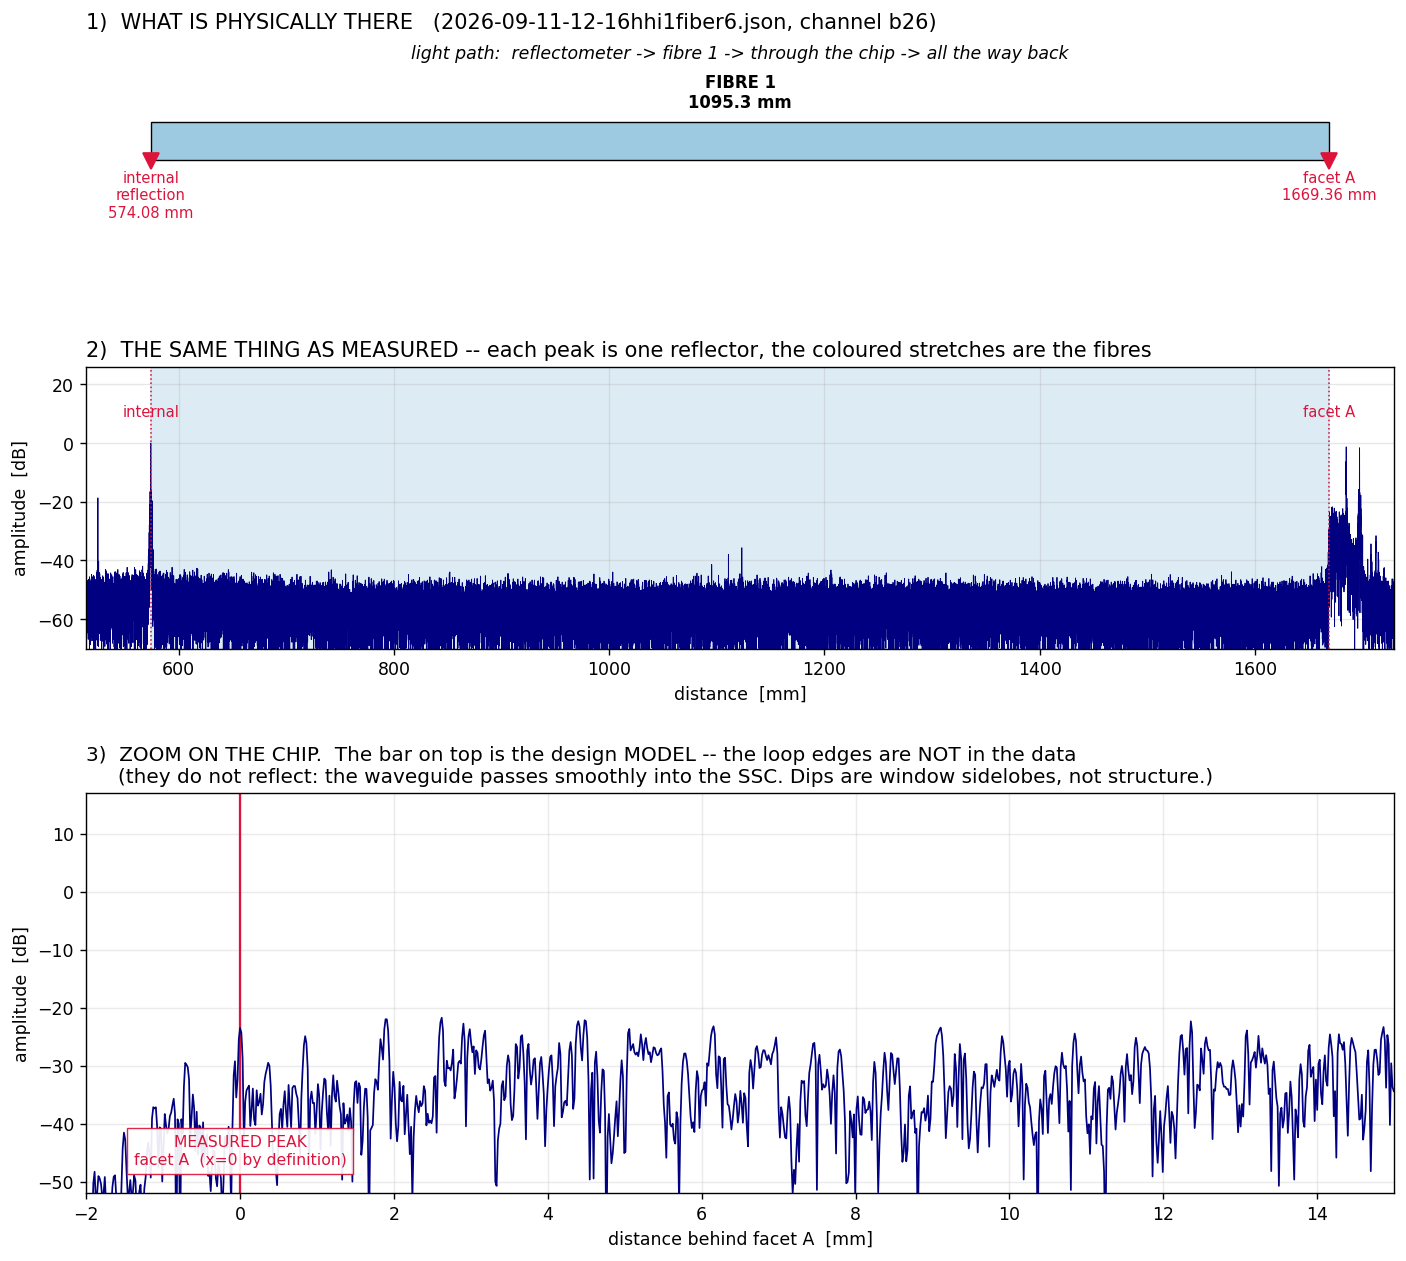
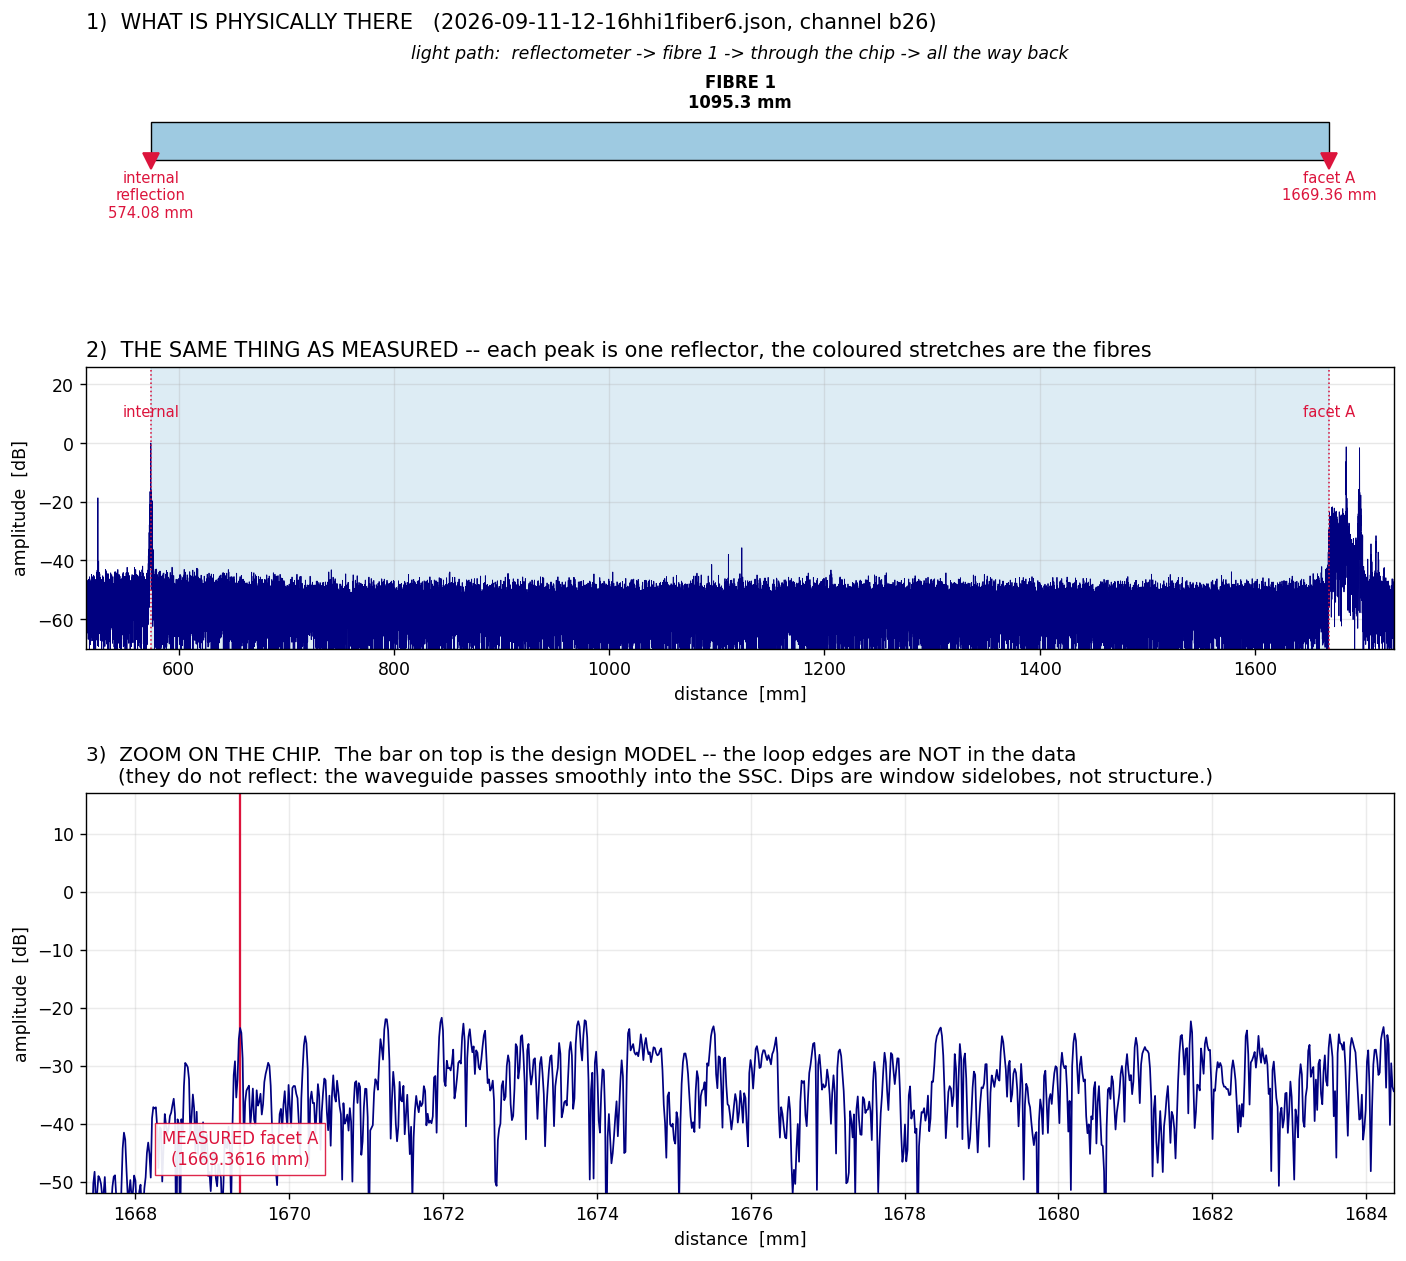
chain plot: absolute mm axis in panel 3, facet labels with positions
Panel 3 of <scan>_chain.png now uses absolute distance in mm instead of
distance behind facet A, and both facets are labelled with the position
where their peak sits (measured facet A / facet B, plus their separation
and the design prediction with its own mm value). The design model bar and
the component markers move with the axis.

Regenerated for all seven chip scans.

diff --git a/tools/identify_chip_scan.py b/tools/identify_chip_scan.py
@@ -260,21 +260,21 @@ def chain_plot(a, z, db, ref, za, zb, d_ff, d_loop, res_mm, marks=None):
     ax = fig.add_subplot(gs[2])
     span = (zb - za) if zb is not None else 12.0
     w = (z > za - 2) & (z < za + span + 3)
-    ax.plot(z[w] - za, db[w], lw=1.0, color="navy", zorder=3)
-    ax.axvline(0, color="crimson", lw=1.3, zorder=2)
-    ax.annotate("MEASURED PEAK\nfacet A  (x=0 by definition)", (0, -47),
-                fontsize=9, ha="center", color="crimson",
+    ax.plot(z[w], db[w], lw=1.0, color="navy", zorder=3)
+    ax.axvline(za, color="crimson", lw=1.3, zorder=2)
+    ax.annotate("MEASURED facet A\n(%.4f mm)" % za, (za, -47),
+                fontsize=9.5, ha="center", color="crimson",
                 bbox=dict(fc="w", ec="crimson", lw=.8, alpha=.92))
     if zb is not None:
-        ax.axvline(zb - za, color="navy", lw=1.6, zorder=2)
-        ax.annotate("MEASURED PEAK\nfacet B at +%.4f mm" % (zb - za),
-                    (zb - za, -47), fontsize=9, ha="center", color="navy",
-                    bbox=dict(fc="w", ec="navy", lw=.8, alpha=.92))
+        ax.axvline(zb, color="navy", lw=1.6, zorder=2)
+        ax.annotate("MEASURED facet B\n(%.4f mm)\n= facet A + %.4f mm"
+                    % (zb, zb - za), (zb, -47), fontsize=9.5, ha="center",
+                    color="navy", bbox=dict(fc="w", ec="navy", lw=.8, alpha=.92))
     if zb_e is not None:
-        ax.axvline(zb_e - za, color="green", ls=":", lw=1.8, zorder=2)
-        ax.annotate("design says facet B here\n%+.1f um off (%.2f cells)"
-                    % ((zb - zb_e) * 1e3, (zb - zb_e) / res_mm),
-                    (zb_e - za, -33), fontsize=8.5, ha="center", color="green",
+        ax.axvline(zb_e, color="green", ls=":", lw=1.8, zorder=2)
+        ax.annotate("design says facet B here\n(%.4f mm)\n%+.1f um off (%.2f cells)"
+                    % (zb_e, (zb - zb_e) * 1e3, (zb - zb_e) / res_mm),
+                    (zb_e, -28), fontsize=8.5, ha="center", color="green",
                     bbox=dict(fc="w", ec="green", lw=.8, alpha=.92))
 
     if d_ff:
@@ -284,22 +284,23 @@ def chain_plot(a, z, db, ref, za, zb, d_ff, d_loop, res_mm, marks=None):
                                (ssc, ssc + d_loop, "gold",
                                 "THE LOOP  %.1f um (design)" % d_loop),
                                (ssc + d_loop, d_ff, "#d9d9d9", "SSC  %.0f um" % ssc)]:
-            ax.add_patch(Rectangle((s0 * 1e-3 * STR, yt),
+            ax.add_patch(Rectangle((za + s0 * 1e-3 * STR, yt),
                                    (s1 - s0) * 1e-3 * STR, h,
                                    fc=c, ec="k", lw=.7, alpha=.85, zorder=4))
-            ax.annotate(lab, ((s0 + s1) / 2 * 1e-3 * STR, yt + h / 2),
+            ax.annotate(lab, (za + (s0 + s1) / 2 * 1e-3 * STR, yt + h / 2),
                         fontsize=8.5, ha="center", va="center", zorder=5,
                         fontweight="bold" if c == "gold" else "normal")
-        ax.annotate("MODEL,\nNOT measured", (-1.9, yt + h / 2), fontsize=8.5,
+        ax.annotate("MODEL,\nNOT measured", (za - 1.9, yt + h / 2), fontsize=8.5,
                     ha="left", va="center", style="italic", color="dimgray")
     for dzm, lab in (marks or []):
-        ax.axvline(dzm, color="seagreen", ls=":", lw=1.2, zorder=2)
-        ax.annotate(lab, (dzm, -12), fontsize=8, ha="center", color="darkgreen",
+        ax.axvline(za + dzm, color="seagreen", ls=":", lw=1.2, zorder=2)
+        ax.annotate("%s\n(%.3f mm)" % (lab, za + dzm), (za + dzm, -12),
+                    fontsize=8, ha="center", color="darkgreen",
                     bbox=dict(fc="w", ec="seagreen", lw=.7, alpha=.9))
 
-    ax.set_xlim(-2, span + 3)
+    ax.set_xlim(za - 2, za + span + 3)
     ax.set_ylim(-52, 17)
-    ax.set_xlabel("distance behind facet A  [mm]")
+    ax.set_xlabel("distance  [mm]")
     ax.set_ylabel("amplitude  [dB]")
     ax.grid(alpha=.25)
     ax.set_title("3)  ZOOM ON THE CHIP.  The bar on top is the design MODEL -- "

diff --git a/logs/2026-09-14.md b/logs/2026-09-14.md
@@ -140,3 +140,13 @@
   Fuer alle sieben Chipscans erzeugt (Fasern 4, 6, 7, 27, 30, 32 vom
   11.09. und Faser 4 vom 14.09.). Stumpf- und Schaltungskanaele bekommen
   denselben Plot, nur ohne Facette B bzw. mit den Bauteilmarken.
+
+- **Plot `<Scan>_chain.png` final:** genau die drei Reihen 1) Schema,
+  2) gemessenes Reflektogramm, 3) Chip-Zoom -- das frueher vierte
+  Detailpanel ist raus. Panel 3 auf Carolinas Wunsch umgestellt:
+  x-Achse jetzt **absolute Distanz in mm** statt "distance behind facet A",
+  und beide Facetten sind mit ihrer Position beschriftet
+  (`MEASURED facet A (1670.2202 mm)`, `MEASURED facet B (1677.4198 mm)
+  = facet A + 7.1996 mm`), dazu die Designvorhersage mit ihrer eigenen
+  mm-Angabe. Modellbalken und Bauteilmarken mitverschoben.
+  Fuer alle sieben Chipscans neu erzeugt.
